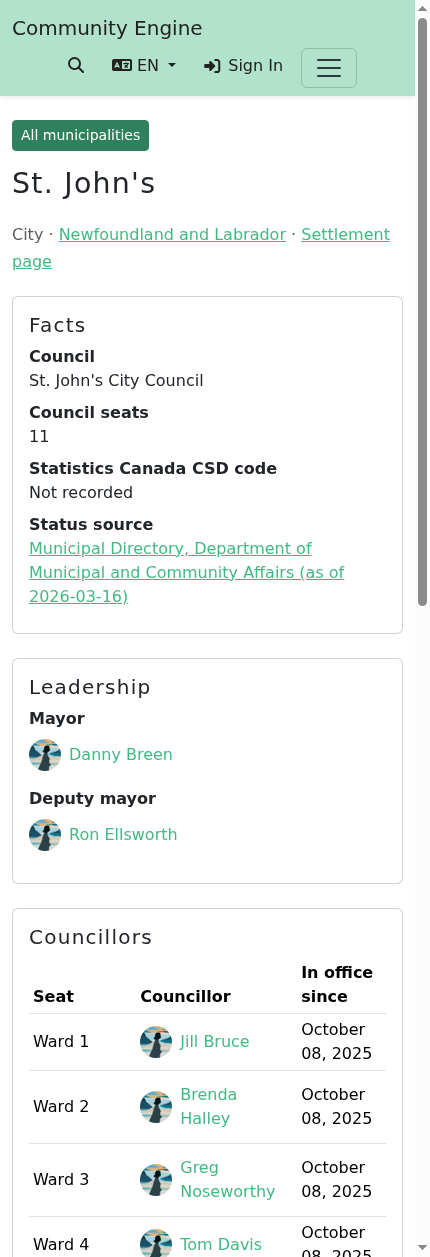
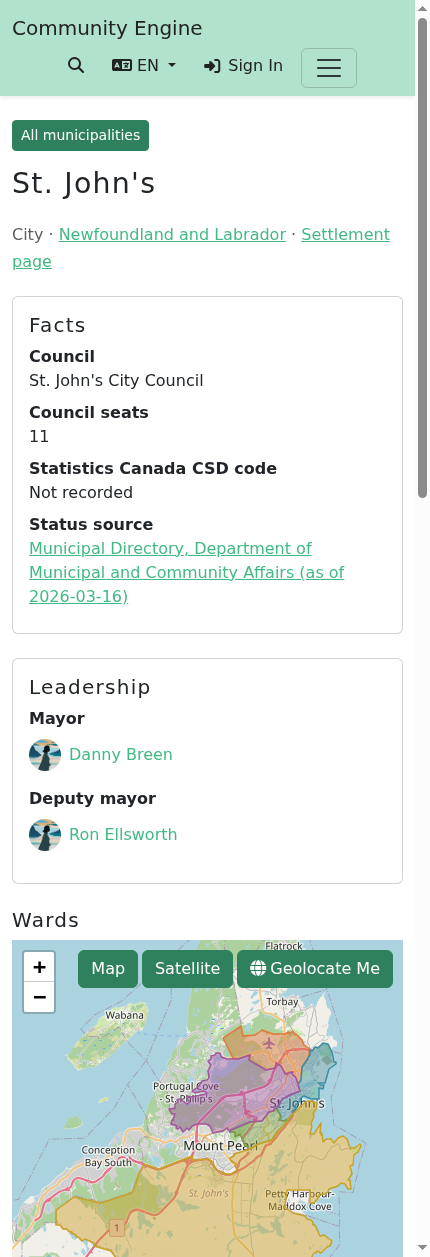
feat(municipalities): ward map on the municipality page
Draws each ward boundary as a coloured, clickable area between the leadership
box and the councillors table, credited to the City of St. John's in the map
attribution and in a source line linking its download portal.

Changed region(s): [[0.0302, 0.7136, 0.9372, 1.0], [0.9674, 0.3723, 0.9977, 0.4964]]

diff --git a/app/models/newfoundland_labrador_online/ward_map.rb b/app/models/newfoundland_labrador_online/ward_map.rb
@@ -1,0 +1,64 @@
+# frozen_string_literal: true
+
+module NewfoundlandLabradorOnline
+  # The map on a municipality page: every ward boundary the council's seats carry, no pins. Never saved;
+  # MunicipalitiesHelper returns an unsaved one.
+  class WardMap < BetterTogether::Geography::LocatableMap
+    SIMPLIFY = 'ST_SimplifyPreserveTopology(boundary::geometry, 0.0005)'
+    EXTENT = 'ST_Extent(boundary::geometry)'
+
+    attr_accessor :seat_boundaries
+
+    # { seat_boundary_id => simplified GeoJSON geometry }
+    def geometries
+      @geometries ||= scope.pluck(:id, Arel.sql("ST_AsGeoJSON(#{SIMPLIFY})")).to_h { |id, json| [id, JSON.parse(json)] }
+    end
+
+    def leaflet_points
+      []
+    end
+
+    def spaces
+      []
+    end
+
+    def types
+      []
+    end
+
+    def credit
+      Geography::BoundaryCredit.for_seat_boundary(seat_boundaries.first)
+    end
+
+    def layers
+      return [] unless credit
+
+      [{ key: 'ward_boundaries', label: 'Ward boundaries', attribution: credit.label,
+         attribution_url: credit.attribution_url }]
+    end
+
+    def center
+      wkt = scope.pick(Arel.sql("ST_AsText(ST_Centroid(#{EXTENT}::geometry))"))
+      return super unless wkt
+
+      RGeo::Geographic.spherical_factory(srid: 4326).parse_wkt(wkt)
+    end
+
+    # [[south, west], [north, east]] of all the wards, for the map to fit; nil when none has a boundary.
+    def viewport
+      south, west, north, east = scope.pick(Arel.sql(
+                                              "ARRAY[ST_YMin(#{EXTENT}::geometry), ST_XMin(#{EXTENT}::geometry), " \
+                                              "ST_YMax(#{EXTENT}::geometry), ST_XMax(#{EXTENT}::geometry)]"
+                                            ))
+      return super unless south
+
+      [[south, west], [north, east]].to_json
+    end
+
+    private
+
+    def scope
+      SeatBoundary.where(id: seat_boundaries.map(&:id)).where.not(boundary: nil)
+    end
+  end
+end

diff --git a/app/helpers/newfoundland_labrador_online/municipalities_helper.rb b/app/helpers/newfoundland_labrador_online/municipalities_helper.rb
@@ -3,6 +3,32 @@
 module NewfoundlandLabradorOnline
   # Links and labels for the municipality pages.
   module MunicipalitiesHelper
+    WARD_COLORS = %w[#e07b39 #3b8ea5 #7a9e3f #a259a2 #c9a227].freeze
+
+    def ward_map(municipality)
+      identifier = "wards-#{municipality.settlement.identifier}"
+      NewfoundlandLabradorOnline::WardMap.find_or_initialize_by(identifier:)
+                                         .tap { |map| map.seat_boundaries = municipality.ward_boundaries }
+    end
+
+    # One coloured, clickable area per ward: the ward name and who sits for it.
+    def ward_overlays(municipality, located_map)
+      holders = municipality.councillors.select(&:seat).group_by { |office| office.seat.id }
+      municipality.ward_boundaries.each_with_index.filter_map do |boundary, index|
+        geometry = located_map.geometries[boundary.id]
+        geometry && ward_overlay(boundary.community_seat, geometry, index, holders)
+      end
+    end
+
+    def ward_overlay(seat, geometry, index, holders)
+      names = Array(holders[seat.id]).map { |office| office.person.name }
+      { geometry:, color: WARD_COLORS[index % WARD_COLORS.size], popup: ward_popup(seat.name, names) }
+    end
+
+    def ward_popup(ward, names)
+      safe_join([tag.strong(ward), names.join(', ').presence].compact, tag.br).to_str
+    end
+
     def municipality_path_for(settlement)
       newfoundland_labrador_online_municipality_path(province_code(settlement), settlement, locale: I18n.locale)
     end

diff --git a/spec/dom_contracts/municipality_pages_spec.rb b/spec/dom_contracts/municipality_pages_spec.rb
@@ -38,6 +38,21 @@ RSpec.describe 'Municipality pages', type: :request do
     expect(response.body).to include('Danny Breen', 'Ron Ellsworth', 'Ward 5', '15,216', '56.74%')
   end
 
+  it 'draws the ward map between leaders and councillors once boundaries are loaded', :aggregate_failures do
+    get "/#{locale}/e/municipalities/nl/st-john-s"
+    expect(response.body).not_to include('id="municipality-ward-map"')
+
+    NewfoundlandLabradorOnline::Civic::WardBoundaryLoader.new(apply: true).call
+    get "/#{locale}/e/municipalities/nl/st-john-s"
+
+    body = response.body
+    expect(body).to include('id="municipality-ward-map"', 'id="ward-map-source"', 'City of St. John&#39;s',
+                            'https://map.stjohns.ca/mapsrv/rest/services/Mapcentre/Administrative_Boundaries/MapServer')
+    expect(body.index('id="municipality-leaders"')).to be < body.index('id="municipality-ward-map"')
+    expect(body.index('id="municipality-ward-map"')).to be < body.index('id="council-members"')
+    expect(body.scan('data-party-overlay-overlays-value').size).to eq(1)
+  end
+
   it 'shows every contest of a municipal election, marking acclamations', :aggregate_failures do
     get "/#{locale}/e/elections/municipal/nl/st-john-s/2025"
 

diff --git a/spec/docs_screenshots/municipalities_spec.rb b/spec/docs_screenshots/municipalities_spec.rb
@@ -22,6 +22,7 @@ RSpec.describe 'Documentation screenshots for municipalities', :js, type: :featu
     end
     NewfoundlandLabradorOnline::Civic::MunicipalRosterLoader.new(apply: true).call
     NewfoundlandLabradorOnline::Civic::MunicipalElectionLoader.new(apply: true).call
+    NewfoundlandLabradorOnline::Civic::WardBoundaryLoader.new(apply: true).call
   end
 
   # scroll_to centres a target in the frame first, for sections below the fold.
@@ -51,6 +52,13 @@ RSpec.describe 'Documentation screenshots for municipalities', :js, type: :featu
 
     it 'captures the whole page' do
       expect(captured('municipality_show', callouts)).to all(be > 10_000)
+    end
+
+    it 'captures the ward map' do
+      callouts = [{ selector: '#municipality-ward-map', title: 'Ward map and source' }]
+      page.has_css?('#municipality-ward-map path.leaflet-interactive', count: 5, wait: 15)
+
+      expect(captured('municipality_show_ward_map', callouts, scroll_to: '#municipality-ward-map')).to all(be > 10_000)
     end
 
     it 'captures the council table' do

diff --git a/app/services/newfoundland_labrador_online/civic/municipality.rb b/app/services/newfoundland_labrador_online/civic/municipality.rb
@@ -61,6 +61,13 @@ module NewfoundlandLabradorOnline
                                         .sort_by { |office| sort_key(office) }
       end
 
+      # Ward boundaries on the council's seats, in seat order (empty when none has been loaded).
+      def ward_boundaries
+        @ward_boundaries ||= SeatBoundary.joins(:community_seat).where(community_seats: { community_id: council.id })
+                                         .where.not(boundary: nil).includes(:community_seat)
+                                         .sort_by { |boundary| boundary.community_seat.position }
+      end
+
       # The council's elections, newest first, each with its contests loaded.
       def elections
         @elections ||= Election.where(community: council).latest_first

diff --git a/docs/municipalities.md b/docs/municipalities.md
@@ -129,8 +129,9 @@ APPLY=1 bin/dc-run bin/rails nlo:municipal:load_ward_boundaries    # writes (loa
 
 The packet is `db/data/nl_municipal/st_johns_wards.geojson` (fetched 2026-11-01, five wards, checksum recorded). The
 five ward areas sum to 478.85 km2, matching the City Boundary layer (478.77 km2). The layer's only population field is
-`POP2001`, so the wards may predate the current by-law; compare with the by-law before relying on them for 2025. No
-page draws ward boundaries yet.
+`POP2001`, so the wards may predate the current by-law; compare with the by-law before relying on them for 2025. The municipality page draws the wards (id `municipality-ward-map`) between the leadership box and the councillors table
+once boundaries are loaded: one coloured, clickable area per ward (name and councillor in the popup), credited in the map
+attribution and in a source line (`ward-map-source`) that links the City's download portal.
 
 ## Not in this phase
 
